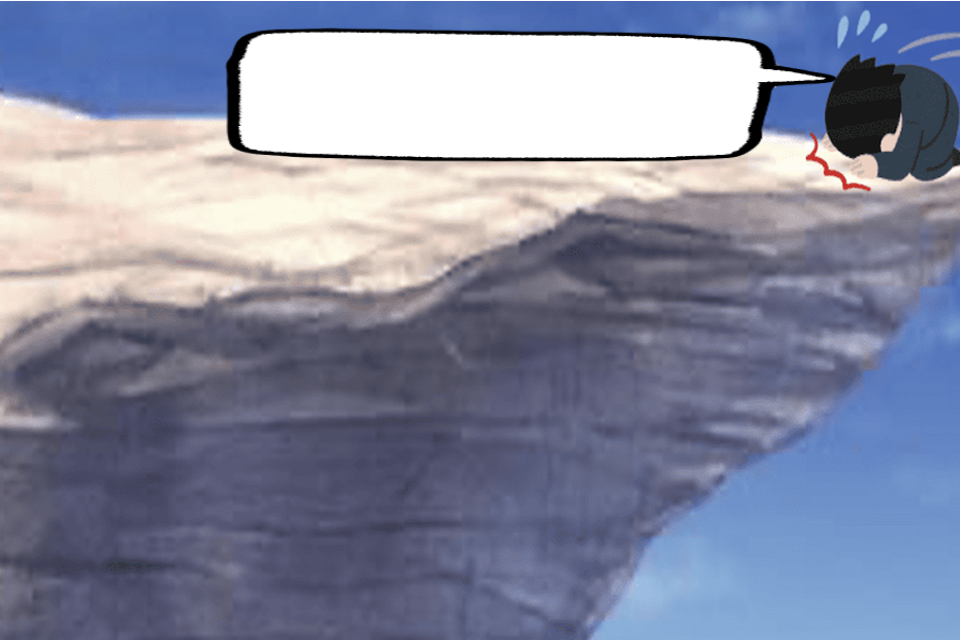
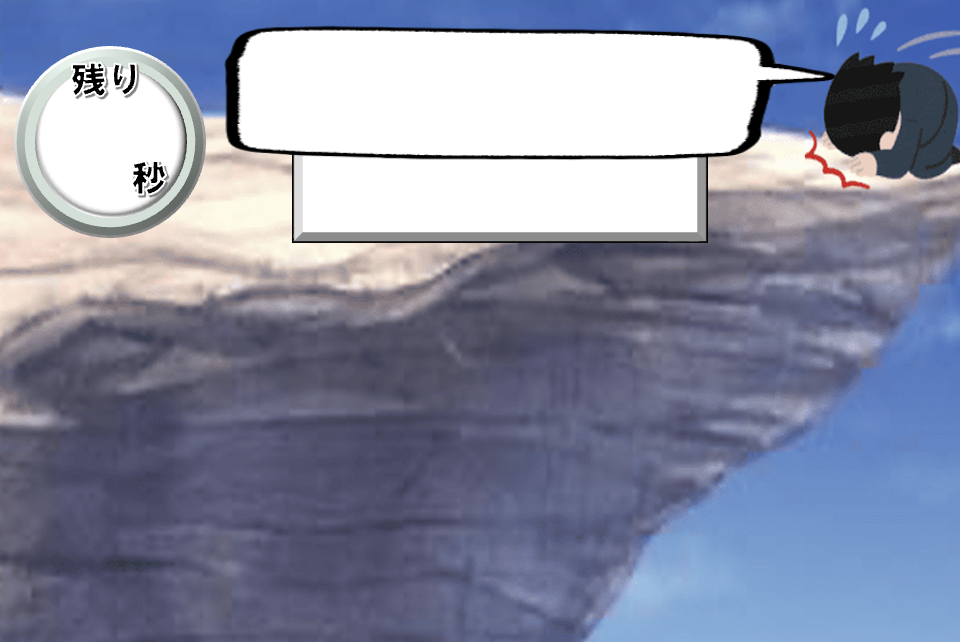
“UI改善”

diff --git a/views/GameScene.java b/views/GameScene.java
@@ -16,44 +16,68 @@ public class GameScene extends JPanel {
     private ArrayList<CardView> cards, judge;//手札、判定カードの表示用リスト
 
     private JPanel judgeArea; //判定枠
+    private JPanel initArea; //カードの初期位置
 
+    private JLabel scoreLabel;
     private JLabel showLabel; public static final int LABEL_ID = 1;//updateLabel用
     private JLabel showtimer; public static final int TIMER_ID = 2;
+    private JLabel themeLabel;//テーマ
 
     private JButton submitButton;//提出ボタン
     private Image backgroundImage; //背景画像
 
     public GameScene(){
         this.setLayout(null);
-        // this.setBackground(Color.WHITE);//背景設定。画像を使うならここを改変
-
-        ImageIcon icon = new ImageIcon("res/GameScene/god.png");
-        backgroundImage = icon.getImage();//背景画像追加
 
         cards = new ArrayList<CardView>();//手札リスト
         judge = new ArrayList<CardView>();//判定リスト
 
         judgeArea = new JPanel();//判定枠の作成
-        judgeArea.setBounds(20, 420, 920, 190);//配置はここの座標を変更
-        judgeArea.setBackground(Color.DARK_GRAY);
+        judgeArea.setBounds(20, 285, 780, 100);//配置はここの座標を変更
+        judgeArea.setBackground(Color.LIGHT_GRAY);
         this.add(judgeArea);
 
+        initArea = new JPanel();//カードが最初に置かれているパネルの作成
+        initArea.setBounds(20, 420, 920, 190);//配置はここの座標を変更
+        initArea.setBackground(Color.DARK_GRAY);
+        this.add(initArea);
+
+
         showLabel = new JLabel("中身");//作った文章表示の作成
-        showLabel.setBounds(290, 90, 430, 75);//配置はここの座標を変更
+        showLabel.setBounds(290, 60, 430, 80);//配置はここの座標を変更
+        showLabel.setFont(new Font("Serif", Font.BOLD, 24));
+        showLabel.setHorizontalAlignment(JLabel.CENTER);
         this.add(showLabel);
 
-        submitButton = new JButton("提出");//提出ボタンの作成
-        submitButton.setBounds(780, 265, 135, 115);//配置はここの座標を変更
-        submitButton.setBackground(Color.BLUE);// 背景色を黄色に設定
-        submitButton.setForeground(Color.WHITE);// 文字色（前景色）を赤色に設定
+
+        themeLabel = new JLabel("テーマ：");//テーマ表示する用
+        themeLabel.setBounds(330, 180, 340, 50);
+        themeLabel.setOpaque(true); // 背景色を有効に
+        themeLabel.setBackground(Color.WHITE);
+        themeLabel.setFont(new Font("SansSerif", Font.BOLD, 35));
+        themeLabel.setHorizontalAlignment(JLabel.CENTER); // 真ん中寄せ
+        this.add(themeLabel);
+
+        submitButton = new JButton(" ▶提出");//提出ボタンの作成
+        submitButton.setBounds(780, 285, 160, 100);//配置はここの座標を変更
+        submitButton.setBackground(Color.decode("#2F6EBA"));// 背景色を黄色に設定
+        submitButton.setForeground(Color.WHITE);// 文字の色を白色に設定
         submitButton.setOpaque(true); // ボタンを不透明にして背景色を表示させる
-        submitButton.setBorderPainted(false); // 枠線を消すと、色がより綺麗に見えます（お好みで）
+        submitButton.setBorderPainted(false); // 枠線を消す
+        submitButton.setFont(new Font("Serif", Font.BOLD, 30));
         this.add(submitButton);
 
+        showtimer = new JLabel("60");
+        showtimer.setBounds(75,110, 90, 75);
+        showtimer.setFont(new Font("Arial", Font.BOLD, 60));
+        this.add(showtimer);
+        
         //timer表示用の関数作ってくれるとすｇｇｇｇっごく助かる。
+        
 
         setSize(960, 640);//サイズ
     }
+
 
     @Override
     protected void paintComponent(Graphics g){
@@ -62,13 +86,42 @@ public class GameScene extends JPanel {
             g.drawImage(backgroundImage, 0, 0, this.getWidth(), this.getHeight(), this);
         }
     }
+
+    public void setTheme(String themeId){//テーマ名を受け取って背景を切り替える
+        String filename = "god.png";
+        String themeText = "???";
+        switch (themeId) {
+            case "oracle":
+                filename = "god.png";
+                themeText = "神託";
+                break;
+            case "propose":
+                filename = "propose.png";
+                themeText = "プロポーズ";
+                break;
+            case "begging":
+                filename = "life.png";
+                themeText = "命乞い";
+                break;
+        }
+        ImageIcon icon = new ImageIcon("res/GameScene/" + filename);
+        if(icon.getImageLoadStatus() == MediaTracker.COMPLETE){//テーマによって背景変更
+            this.backgroundImage = icon.getImage();
+        }
+        if(themeLabel != null){//テーマによって文字変更
+            themeLabel.setText("テーマ：" + themeText);
+        }
+        this.repaint();
+    }
+
     public void GenerateCards(ArrayList<String> a, GameController controller){//文字列のリストからカードリストを作成、表示する関数
         for(int i=0; i < 12; i++){
-            CardView c = new CardView(a.get(i), 20+60*i, 500);//カードの配置はここの座標を変更
+            CardView c = new CardView(a.get(i), 40+147*(i%6), 435+90*(i/6));//カードの配置はここの座標を変更
             c.addMouseListener(controller);//GameControllerで用意したListenerをここで適用
             c.addMouseMotionListener(controller);
             cards.add(c);//リストに追加
             this.add(c);//パネルに追加
+            this.setComponentZOrder(c, 0);//カードを最前面に追加
         }
         this.repaint();//一応再描画。多分いらん
     }
@@ -99,16 +152,16 @@ public class GameScene extends JPanel {
     public void updateLabel(int id, String t){//指定したIDのJLabelの文字を変更する。タイマーと作れた文章用
         switch (id) {
             case LABEL_ID://1
-                showLabel.setText(t);
+                String displayText = "<html><div style='text-align: center; width: 360px;'>" + t + "</div></html>";
+                showLabel.setText(displayText); //吹き出しの中を複数行に対応させた
                 showLabel.repaint();
                 break;
             case TIMER_ID://2
                 showtimer.setText(t);
+                break;
             default:
                 throw new AssertionError();
         }
-
-
     }
 
     public String getList(ArrayList<CardView> a){//リスト内の文字列を全て繋げて返す。抹消予定。整列含め絶対Model上のCardInfoでやったほうがいい。
@@ -119,17 +172,4 @@ public class GameScene extends JPanel {
         }
         return rets;
     }
-
-    public void setTheme(String themeName){
-        String path = "res/GameScene"+ themeName + ".png";
-        ImageIcon icon = new ImageIcon(path);
-
-        if(icon.getImageLoadStatus()==MediaTracker.COMPLETE) {
-            this.backgroundImage = icon.getImage();
-            this.repaint(); // 重要：画面を再描画して新しい画像を反映させる
-        } else {
-            System.out.println("画像が見つかりません: " + path);
-        }
-    }
-
 }

diff --git a/controllers/GameController.java b/controllers/GameController.java
@@ -8,6 +8,7 @@ import java.awt.event.ActionListener;
 import java.awt.event.MouseAdapter;
 import java.awt.event.MouseEvent;
 import java.util.ArrayList;
+import javax.swing.Timer;
 import java.util.Comparator;
 import java.util.List;
 import lib.CardInfo;
@@ -23,9 +24,11 @@ public class GameController extends MouseAdapter implements ActionListener{
     private GameScene view;
     private MainFrame mainFrame;//viewやmodelなどの関数呼び出し用
     private Point clickPoint; //mousePresed時の座標記憶先
-private final GameModel model;
-private final int themeId;
-private final String themeKey;
+    private Timer gameTimer;
+    private int remainingTime = 60;//制限時間は60秒
+    private final GameModel model;
+    private final int themeId;
+    private final String themeKey;
 
     public GameController(MainController mc) {
         this.mainCtrl = mc;
@@ -34,9 +37,11 @@ private final String themeKey;
         this.view = mainFrame.startGame();
         this.themeId = model.pickRandomThemeId();
         this.themeKey = model.getThemeKey(themeId);
+        view.setTheme(this.themeKey);
         ArrayList<String> cards = model.buildCardSet(themeKey);
         view.GenerateCards(cards, this);//thisがMouseAdapter
         view.addSubmitListener(this);//提出ボタンにListenerを付与
+        startTimer();
     }
     
     @Override   //MouseAdapterの再定義開始
@@ -66,7 +71,7 @@ private final String themeKey;
             Rectangle judgeRect = view.getJudgeAreaBounds();
 
             if(cardRect.intersects(judgeRect)){ //判定枠と重なっていた場合
-                card.lastp.y = 256; //y座標固定
+                card.lastp.y = 300; //y座標固定
                 card.lastp.x = card.getX(); card.info.lastp.x = card.lastp.x; //x座標をReleased時の値に更新
                 card.info.lastp.y = card.lastp.y;
                 view.addCardtoJudge(card);//view側でArrayListに追加
@@ -84,6 +89,11 @@ private final String themeKey;
         @Override
         public void actionPerformed(ActionEvent e){//提出ボタン用
             if(e.getActionCommand().equals("提出")){
+                // 時間が0になった時の処理
+                if(gameTimer != null){
+                    gameTimer.stop();
+                }
+
                 mainCtrl.startJudge();
                 //view.updateLabel(1, "test");//この中身は提出後の動作全般。処理は""絶対に""それぞれ別で関数に書くこと。ここでは呼び出しがメイン
             }
@@ -113,5 +123,22 @@ private final String themeKey;
             sentence.append(word);
         }
         view.updateLabel(GameScene.LABEL_ID, sentence.toString());
+    }
+
+    private void startTimer(){
+        gameTimer = new Timer(1000, new ActionListener() {
+            @Override
+            public void actionPerformed(ActionEvent e){
+                remainingTime--;
+
+                view.updateLabel(GameScene.TIMER_ID, String.valueOf(remainingTime));
+
+                if(remainingTime <= 0){
+                    gameTimer.stop();
+                    mainCtrl.startJudge();
+                }
+            }
+        });
+        gameTimer.start();
     }
 }

diff --git a/views/JudgeScene.java b/views/JudgeScene.java
@@ -5,19 +5,34 @@ import java.util.*;
 import javax.swing.*;
 
 public class JudgeScene extends JPanel {
-    private JButton goTitleButton;
+    private JLabel scoreLabel;//点数
+    private JLabel commentLabel;//コメント
+    private JButton goTitleButton;//タイトルに戻る
+
     public JudgeScene() {
-
-        this.setSize(640, 680);
-        
         this.setLayout(null);
-        this.setBackground(Color.WHITE);
+
+        ImageIcon icon = new ImageIcon("res/JudgeScene/judge.png");
+        this.backgroundImage = icon.getImage();//背景画像追加
+
+        scoreLabel = new JLabel();//作った文章表示の作成
+        scoreLabel.setBounds(380, 120, 210, 160);
+        scoreLabel.setFont(new Font("Serif", Font.BOLD, 75));
+        scoreLabel.setHorizontalAlignment(JLabel.CENTER);
+        this.add(scoreLabel);
+
+        commentLabel = new JLabel();
+        commentLabel.setBounds(230, 420, 510, 110);
+        commentLabel.setHorizontalAlignment(JLabel.CENTER);
+        this.add(commentLabel);
 
 
-        goTitleButton = new JButton("はじめる");
-        goTitleButton.setBounds(350, 400, 230, 80);
+        goTitleButton = new JButton();
+        goTitleButton.setBounds(700, 445, 260, 185);
         goTitleButton.setBackground(Color.BLUE);
         this.add(goTitleButton);
+
+        setSize(960, 640);//サイズ
 
     }
 }

diff --git a/views/CardView.java b/views/CardView.java
@@ -12,10 +12,12 @@ import lib.CardInfo;
             this.lastp = new Point(x, y); 
             this.initp = new Point(x, y);
             setText(word);
+
+            this.setFont(new Font(Font.MONOSPACED, Font.BOLD, 15));
             setOpaque(true);
             setBackground(Color.white);
             setHorizontalAlignment(CENTER);
-            setBounds(x, y, 80, 60);
+            setBounds(x, y, 135, 70);
             setBorder(BorderFactory.createLineBorder(Color.BLACK));
         }
     }
